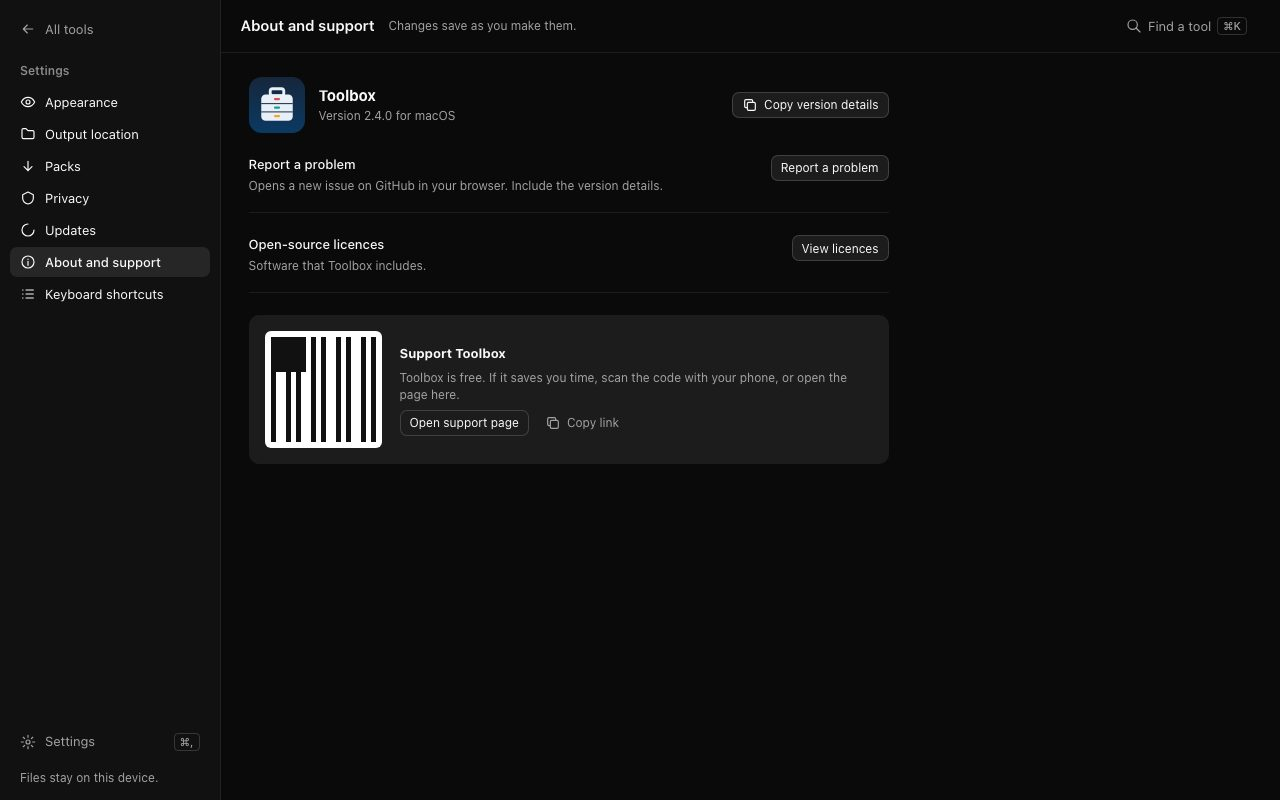
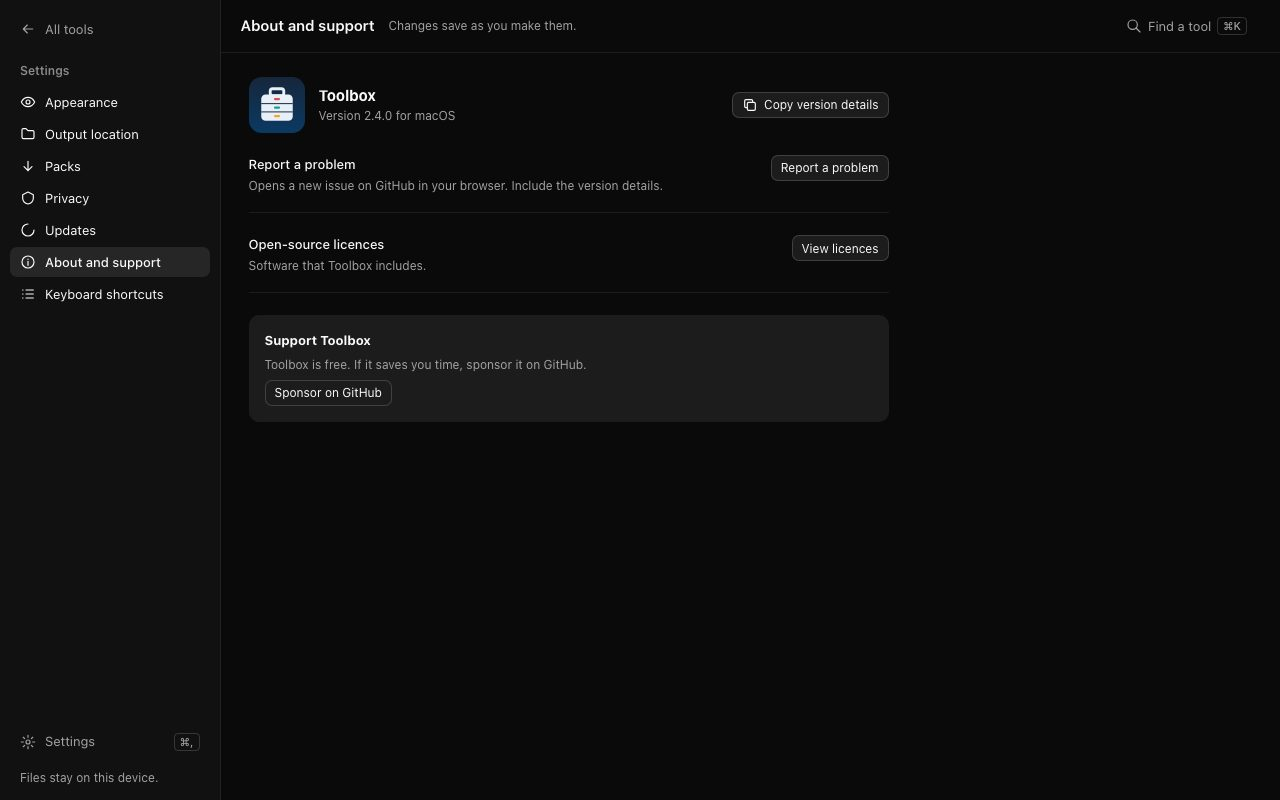
Replace Buy Me a Coffee with GitHub Sponsors (#724)
Settings now offers a "Sponsor on GitHub" button that opens the sponsor
page through a fixed-URL native command, replacing the QR code. The
README swaps the Ona badge for a Sponsors badge, and FUNDING.yml points
at GitHub Sponsors.

Changed region(s): [[0.1875, 0.4062, 0.6562, 0.5625]]

diff --git a/ToolboxTauri/design/boards/Settings.dc.html b/ToolboxTauri/design/boards/Settings.dc.html
@@ -65,8 +65,8 @@ fieldset.opt{border:0;margin:0;padding:0}fieldset.opt legend{padding:0;margin-bo
 <div style="display: flex; gap: 16px; align-items: flex-start; flex-wrap: wrap; padding-bottom: 18px; border-bottom: 1px solid var(--line)"><span style="flex: 1 1 260px; display: flex; flex-direction: column; gap: 3px"><span style="font-weight: 500">Report a problem</span><span class="hint">Opens a new issue on GitHub in your browser. Include the version details.</span></span><span style="flex: none"><button class="btn sm">Report a problem</button></span></div>
 <div style="display: flex; gap: 16px; align-items: flex-start; flex-wrap: wrap; padding-bottom: 18px; border-bottom: 1px solid var(--line)"><span style="flex: 1 1 260px; display: flex; flex-direction: column; gap: 3px"><span style="font-weight: 500">Open-source licences</span><span class="hint">Software that Toolbox includes.</span></span><span style="flex: none"><button class="btn sm">View licences</button></span></div>
 <div style="display: flex; gap: 18px; align-items: center; flex-wrap: wrap; padding: 16px; border-radius: 10px; background: var(--raise)">
-<span role="img" aria-label="QR code for the support page" style="width: 105px; height: 105px; padding: 6px; background: #fff; border-radius: 6px; display: grid; grid-template-columns: repeat(21, 1fr)"><span style="background: #111"></span><span style="background: #111"></span><span style="background: #111"></span><span style="background: #111"></span><span style="background: #111"></span><span style="background: #111"></span><span style="background: #111"></span><span style="background: #fff"></span><span style="background: #111"></span><span style="background: #fff"></span><span style="background: #111"></span><span style="background: #fff"></span><span style="background: #fff"></span><span style="background: #111"></span><span style="background: #fff"></span><span style="background: #111"></span><span style="background: #fff"></span><span style="background: #fff"></span><span style="background: #111"></span><span style="background: #fff"></span><span style="background: #111"></span><span style="background: #111"></span><span style="background: #111"></span><span style="background: #111"></span><span style="background: #111"></span><span style="background: #111"></span><span style="background: #111"></span><span style="background: #111"></span><span style="background: #fff"></span><span style="background: #111"></span><span style="background: #fff"></span><span style="background: #111"></span><span style="background: #fff"></span><span style="background: #fff"></span><span style="background: #111"></span><span style="background: #fff"></span><span style="background: #111"></span><span style="background: #fff"></span><span style="background: #fff"></span><span style="background: #111"></span><span style="background: #fff"></span><span style="background: #111"></span><span style="background: #111"></span><span style="background: #111"></span><span style="background: #111"></span><span style="background: #111"></span><span style="background: #111"></span><span style="background: #111"></span><span style="background: #111"></span><span style="background: #fff"></span><span style="background: #111"></span><span style="background: #fff"></span><span style="background: #111"></span><span style="background: #fff"></span><span style="background: #fff"></span><span style="background: #111"></span><span style="background: #fff"></span><span style="background: #111"></span><span style="background: #fff"></span><span style="background: #fff"></span><span style="background: #111"></span><span style="background: #fff"></span><span style="background: #111"></span><span style="background: #111"></span><span style="background: #111"></span><span style="background: #111"></span><span style="background: #111"></span><span style="background: #111"></span><span style="background: #111"></span><span style="background: #111"></span><span style="background: #fff"></span><span style="background: #111"></span><span style="background: #fff"></span><span style="background: #111"></span><span style="background: #fff"></span><span style="background: #fff"></span><span style="background: #111"></span><span style="background: #fff"></span><span style="background: #111"></span><span style="background: #fff"></span><span style="background: #fff"></span><span style="background: #111"></span><span style="background: #fff"></span><span style="background: #111"></span><span style="background: #111"></span><span style="background: #111"></span><span style="background: #111"></span><span style="background: #111"></span><span style="background: #111"></span><span style="background: #111"></span><span style="background: #111"></span><span style="background: #fff"></span><span style="background: #111"></span><span style="background: #fff"></span><span style="background: #111"></span><span style="background: #fff"></span><span style="background: #fff"></span><span style="background: #111"></span><span style="background: #fff"></span><span style="background: #111"></span><span style="background: #fff"></span><span style="background: #fff"></span><span style="background: #111"></span><span style="background: #fff"></span><span style="background: #111"></span><span style="background: #111"></span><span style="background: #111"></span><span style="background: #111"></span><span style="background: #111"></span><span style="background: #111"></span><span style="background: #111"></span><span style="background: #111"></span><span style="background: #fff"></span><span style="background: #111"></span><span style="background: #fff"></span><span style="background: #111"></span><span style="background: #fff"></span><span style="background: #fff"></span><span style="background: #111"></span><span style="background: #fff"></span><span style="background: #111"></span><span style="background: #fff"></span><span style="background: #fff"></span><span style="background: #111"></span><span style="background: #fff"></span><span style="background: #111"></span><span style="background: #111"></span><span style="background: #111"></span><span style="background: #111"></span><span style="background: #111"></span><span style="background: #111"></span><span style="background: #111"></span><span style="background: #111"></span><span style="background: #fff"></span><span style="background: #111"></span><span style="background: #fff"></span><span style="background: #111"></span><span style="background: #fff"></span><span style="background: #fff"></span><span style="background: #111"></span><span style="background: #fff"></span><span style="background: #111"></span><span style="background: #fff"></span><span style="background: #fff"></span><span style="background: #111"></span><span style="background: #fff"></span><span style="background: #111"></span><span style="background: #111"></span><span style="background: #fff"></span><span style="background: #fff"></span><span style="background: #111"></span><span style="background: #fff"></span><span style="background: #111"></span><span style="background: #fff"></span><span style="background: #fff"></span><span style="background: #111"></span><span style="background: #fff"></span><span style="background: #111"></span><span style="background: #fff"></span><span style="background: #fff"></span><span style="background: #111"></span><span style="background: #fff"></span><span style="background: #111"></span><span style="background: #fff"></span><span style="background: #fff"></span><span style="background: #111"></span><span style="background: #fff"></span><span style="background: #111"></span><span style="background: #111"></span><span style="background: #fff"></span><span style="background: #fff"></span><span style="background: #111"></span><span style="background: #fff"></span><span style="background: #111"></span><span style="background: #fff"></span><span style="background: #fff"></span><span style="background: #111"></span><span style="background: #fff"></span><span style="background: #111"></span><span style="background: #fff"></span><span style="background: #fff"></span><span style="background: #111"></span><span style="background: #fff"></span><span style="background: #111"></span><span style="background: #fff"></span><span style="background: #fff"></span><span style="background: #111"></span><span style="background: #fff"></span><span style="background: #111"></span><span style="background: #111"></span><span style="background: #fff"></span><span style="background: #fff"></span><span style="background: #111"></span><span style="background: #fff"></span><span style="background: #111"></span><span style="background: #fff"></span><span style="background: #fff"></span><span style="background: #111"></span><span style="background: #fff"></span><span style="background: #111"></span><span style="background: #fff"></span><span style="background: #fff"></span><span style="background: #111"></span><span style="background: #fff"></span><span style="background: #111"></span><span style="background: #fff"></span><span style="background: #fff"></span><span style="background: #111"></span><span style="background: #fff"></span><span style="background: #111"></span><span style="background: #111"></span><span style="background: #fff"></span><span style="background: #fff"></span><span style="background: #111"></span><span style="background: #fff"></span><span style="background: #111"></span><span style="background: #fff"></span><span style="background: #fff"></span><span style="background: #111"></span><span style="background: #fff"></span><span style="background: #111"></span><span style="background: #fff"></span><span style="background: #fff"></span><span style="background: #111"></span><span style="background: #fff"></span><span style="background: #111"></span><span style="background: #fff"></span><span style="background: #fff"></span><span style="background: #111"></span><span style="background: #fff"></span><span style="background: #111"></span><span style="background: #111"></span><span style="background: #fff"></span><span style="background: #fff"></span><span style="background: #111"></span><span style="background: #fff"></span><span style="background: #111"></span><span style="background: #fff"></span><span style="background: #fff"></span><span style="background: #111"></span><span style="background: #fff"></span><span style="background: #111"></span><span style="background: #fff"></span><span style="background: #fff"></span><span style="background: #111"></span><span style="background: #fff"></span><span style="background: #111"></span><span style="background: #fff"></span><span style="background: #fff"></span><span style="background: #111"></span><span style="background: #fff"></span><span style="background: #111"></span><span style="background: #111"></span><span style="background: #fff"></span><span style="background: #fff"></span><span style="background: #111"></span><span style="background: #fff"></span><span style="background: #111"></span><span style="background: #fff"></span><span style="background: #fff"></span><span style="background: #111"></span><span style="background: #fff"></span><span style="background: #111"></span><span style="background: #fff"></span><span style="background: #fff"></span><span style="background: #111"></span><span style="background: #fff"></span><span style="background: #111"></span><span style="background: #fff"></span><span style="background: #fff"></span><span style="background: #111"></span><span style="background: #fff"></span><span style="background: #111"></span><span style="background: #111"></span><span style="background: #fff"></span><span style="background: #fff"></span><span style="background: #111"></span><span style="background: #fff"></span><span style="background: #111"></span><span style="background: #fff"></span><span style="background: #fff"></span><span style="background: #111"></span><span style="background: #fff"></span><span style="background: #111"></span><span style="background: #fff"></span><span style="background: #fff"></span><span style="background: #111"></span><span style="background: #fff"></span><span style="background: #111"></span><span style="background: #fff"></span><span style="background: #fff"></span><span style="background: #111"></span><span style="background: #fff"></span><span style="background: #111"></span><span style="background: #111"></span><span style="background: #fff"></span><span style="background: #fff"></span><span style="background: #111"></span><span style="background: #fff"></span><span style="background: #111"></span><span style="background: #fff"></span><span style="background: #fff"></span><span style="background: #111"></span><span style="background: #fff"></span><span style="background: #111"></span><span style="background: #fff"></span><span style="background: #fff"></span><span style="background: #111"></span><span style="background: #fff"></span><span style="background: #111"></span><span style="background: #fff"></span><span style="background: #fff"></span><span style="background: #111"></span><span style="background: #fff"></span><span style="background: #111"></span><span style="background: #111"></span><span style="background: #fff"></span><span style="background: #fff"></span><span style="background: #111"></span><span style="background: #fff"></span><span style="background: #111"></span><span style="background: #fff"></span><span style="background: #fff"></span><span style="background: #111"></span><span style="background: #fff"></span><span style="background: #111"></span><span style="background: #fff"></span><span style="background: #fff"></span><span style="background: #111"></span><span style="background: #fff"></span><span style="background: #111"></span><span style="background: #fff"></span><span style="background: #fff"></span><span style="background: #111"></span><span style="background: #fff"></span><span style="background: #111"></span><span style="background: #111"></span><span style="background: #fff"></span><span style="background: #fff"></span><span style="background: #111"></span><span style="background: #fff"></span><span style="background: #111"></span><span style="background: #fff"></span><span style="background: #fff"></span><span style="background: #111"></span><span style="background: #fff"></span><span style="background: #111"></span><span style="background: #fff"></span><span style="background: #fff"></span><span style="background: #111"></span><span style="background: #fff"></span><span style="background: #111"></span><span style="background: #fff"></span><span style="background: #fff"></span><span style="background: #111"></span><span style="background: #fff"></span><span style="background: #111"></span><span style="background: #111"></span><span style="background: #fff"></span><span style="background: #fff"></span><span style="background: #111"></span><span style="background: #fff"></span><span style="background: #111"></span><span style="background: #fff"></span><span style="background: #fff"></span><span style="background: #111"></span><span style="background: #fff"></span><span style="background: #111"></span><span style="background: #fff"></span><span style="background: #fff"></span><span style="background: #111"></span><span style="background: #fff"></span><span style="background: #111"></span><span style="background: #fff"></span><span style="background: #fff"></span><span style="background: #111"></span><span style="background: #fff"></span><span style="background: #111"></span><span style="background: #111"></span><span style="background: #fff"></span><span style="background: #fff"></span><span style="background: #111"></span><span style="background: #fff"></span><span style="background: #111"></span><span style="background: #fff"></span><span style="background: #fff"></span><span style="background: #111"></span><span style="background: #fff"></span><span style="background: #111"></span><span style="background: #fff"></span><span style="background: #fff"></span><span style="background: #111"></span><span style="background: #fff"></span><span style="background: #111"></span><span style="background: #fff"></span><span style="background: #fff"></span><span style="background: #111"></span><span style="background: #fff"></span><span style="background: #111"></span><span style="background: #111"></span><span style="background: #fff"></span><span style="background: #fff"></span><span style="background: #111"></span><span style="background: #fff"></span><span style="background: #111"></span><span style="background: #fff"></span><span style="background: #fff"></span><span style="background: #111"></span><span style="background: #fff"></span><span style="background: #111"></span><span style="background: #fff"></span><span style="background: #fff"></span><span style="background: #111"></span><span style="background: #fff"></span><span style="background: #111"></span><span style="background: #fff"></span><span style="background: #fff"></span><span style="background: #111"></span><span style="background: #fff"></span><span style="background: #111"></span><span style="background: #111"></span><span style="background: #fff"></span><span style="background: #fff"></span><span style="background: #111"></span><span style="background: #fff"></span><span style="background: #111"></span><span style="background: #fff"></span><span style="background: #fff"></span><span style="background: #111"></span><span style="background: #fff"></span><span style="background: #111"></span><span style="background: #fff"></span><span style="background: #fff"></span><span style="background: #111"></span><span style="background: #fff"></span><span style="background: #111"></span><span style="background: #fff"></span><span style="background: #fff"></span><span style="background: #111"></span><span style="background: #fff"></span><span style="background: #111"></span></span>
-<span style="flex: 1 1 220px; display: flex; flex-direction: column; gap: 6px"><strong>Support Toolbox</strong><span class="hint">Toolbox is free. If it saves you time, scan the code with your phone, or open the page here.</span><span style="display: flex; gap: 6px"><button class="btn sm">Open support page</button><button class="btn sm ghost"><svg class="ic" viewBox="0 0 24 24" aria-hidden="true"><rect x="8" y="8" width="12" height="12" rx="2"></rect><path d="M16 8V6a2 2 0 0 0-2-2H6a2 2 0 0 0-2 2v8a2 2 0 0 0 2 2h2"></path></svg>Copy link</button></span></span></div></sc-if></section>
+</span>
+<span style="flex: 1 1 220px; display: flex; flex-direction: column; gap: 6px"><strong>Support Toolbox</strong><span class="hint">Toolbox is free. If it saves you time, sponsor it on GitHub.</span><span style="display: flex; gap: 6px"><button class="btn sm">Sponsor on GitHub</button></span></span></div></sc-if></section>
 </div>
 </div>
 </div>

diff --git a/ToolboxTauri/src/views/SettingsPage.tsx b/ToolboxTauri/src/views/SettingsPage.tsx
@@ -5,7 +5,6 @@ import { invoke } from "@tauri-apps/api/core";
 import { confirm, open } from "@tauri-apps/plugin-dialog";
 import { ArrowLeft, Check, Eye, Folder, Info, List, LoaderCircle, Search, Shield, type LucideIcon } from "lucide-react";
 import packageInfo from "../../package.json";
-import qrCode from "../assets/BuyMeACoffeeQR.png";
 import appIcon from "../../src-tauri/icons/128x128.png";
 import {
   isAnalyticsOptedOut,
@@ -253,6 +252,29 @@ const NoticesCard = () => {
   );
 };
 
+const SupportCard = () => {
+  const [error, setError] = useState<string | null>(null);
+  const openSponsorPage = async () => {
+    setError(null);
+    try {
+      await invoke("open_sponsor_page");
+    } catch (reason) {
+      setError(String(reason));
+    }
+  };
+  return (
+    <Card className="settings-update py-0">
+      <CardContent className="settings-update-content">
+        <span className="settings-row-text" role="status" aria-live="polite">
+          <span className="settings-update-title">Support Toolbox</span>
+          <span className="settings-row-hint">{error ?? "Toolbox is free. If it saves you time, sponsor it on GitHub."}</span>
+        </span>
+        <Button variant="outline" size="xs" onClick={() => void openSponsorPage()}>Sponsor on GitHub</Button>
+      </CardContent>
+    </Card>
+  );
+};
+
 const AboutSection = () => (
   <>
     <div className="settings-about">
@@ -262,15 +284,7 @@ const AboutSection = () => (
         <span className="settings-row-hint">Version {packageInfo.version} for {isWindows() ? "Windows" : "macOS"}</span>
       </span>
     </div>
-    <Card className="settings-support py-0">
-      <CardContent className="settings-support-content">
-        <img src={qrCode} width="112" height="112" alt="Buy Me a Coffee donation QR code" />
-        <span className="settings-row-text">
-          <strong className="settings-update-title">Support Toolbox</strong>
-          <span className="settings-row-hint">Toolbox is free. If it saves you time, scan the code with your phone.</span>
-        </span>
-      </CardContent>
-    </Card>
+    <SupportCard />
     <NoticesCard />
   </>
 );

diff --git a/ToolboxTauri/tests/ui/feature-navigation.spec.ts b/ToolboxTauri/tests/ui/feature-navigation.spec.ts
@@ -909,8 +909,11 @@ test("the settings sidebar switches sections and lists only the built ones", asy
     await expect(sections.getByRole("button", { name: "About and support" })).toHaveAttribute("aria-pressed", "true");
     await expect(sections.getByRole("button", { name: "Appearance" })).toHaveAttribute("aria-pressed", "false");
     await expect(about).toContainText(`Version ${appVersion} for macOS`);
-    await expect(about.getByRole("img", { name: "Buy Me a Coffee donation QR code" })).toBeVisible();
     await expect(about).toContainText("Support Toolbox");
+    await about.getByRole("button", { name: "Sponsor on GitHub" }).click();
+    await expect.poll(() => page.evaluate(() =>
+        ((window as TestWindow).__toolboxInvocations ?? []).filter(({ command }) => command === "open_sponsor_page").length,
+    )).toBe(1);
 
     await about.getByRole("button", { name: "Open notices" }).click();
     await expect.poll(() => page.evaluate(() =>

diff --git a/ToolboxTauri/src/styles/app.css b/ToolboxTauri/src/styles/app.css
@@ -1048,8 +1048,6 @@ body {
 .settings-about { display:flex; align-items:center; gap:14px; }
 .settings-about img { width:56px; height:56px; border-radius:12px; }
 .settings-about-name { font-size:15px; }
-.settings-support-content { display:flex; align-items:center; gap:18px; padding:16px; }
-.settings-support-content img { width:112px; height:112px; flex:none; border-radius:4px; background:#fff; }
 @media (max-width: 760px) {
   .settings-page { display:block; height:auto; min-height:100vh; overflow:visible; }
   .settings-sidebar { border-right:0; border-bottom:1px solid var(--border); }

diff --git a/ToolboxTauri/src-tauri/src/main.rs b/ToolboxTauri/src-tauri/src/main.rs
@@ -6,7 +6,7 @@ mod kit;
 mod settings;
 mod shell;
 
-use crate::file_actions::{open_output_path, open_third_party_notices, reveal_output_path};
+use crate::file_actions::{open_output_path, open_sponsor_page, open_third_party_notices, reveal_output_path};
 use crate::kit::common::{note_renamed, JobOutcome};
 use crate::kit::images::{ImageProcessor, Options as ImageOptions};
 use crate::kit::images::tools;
@@ -466,6 +466,7 @@ fn main() {
             open_output_path,
             reveal_output_path,
             open_third_party_notices,
+            open_sponsor_page,
             intake::inspect_intake_paths,
             settings::get_output_settings,
             settings::set_output_settings,

diff --git a/ToolboxTauri/src-tauri/src/file_actions.rs b/ToolboxTauri/src-tauri/src/file_actions.rs
@@ -91,6 +91,13 @@ pub fn open_third_party_notices() -> Result<(), String> {
     open_file(&path)
 }
 
+const SPONSOR_PAGE_URL: &str = "https://github.com/sponsors/lazzyms";
+
+#[tauri::command]
+pub fn open_sponsor_page() -> Result<(), String> {
+    open_file(Path::new(SPONSOR_PAGE_URL))
+}
+
 #[cfg(target_os = "macos")]
 fn open_file(path: &Path) -> Result<(), String> {
     run_open("/usr/bin/open", &[path.as_os_str().to_owned()], "open", path)

diff --git a/README.md b/README.md
@@ -3,7 +3,7 @@
 Toolbox is a cross-platform desktop app for private, local-first PDF, document,
 and image utilities. Files are processed on-device and are never uploaded.
 
-[![Build with Ona](https://ona.com/build-with-ona.svg)](https://app.ona.com/#https://github.com/lazzyms/toolbox)
+[![Sponsor lazzyms](https://img.shields.io/badge/Sponsor-lazzyms-ea4aaa?logo=githubsponsors&logoColor=white)](https://github.com/sponsors/lazzyms)
 
 The Tauri app on `main` is the primary Toolbox app and the repository's
 default branch. The website in [`docs/`](docs/) is kept independently.
@@ -95,3 +95,7 @@ coverage with every behavior change. Use short imperative commit messages and
 open pull requests against `main`.
 
 Toolbox is released under the [MIT License](LICENSE).
+
+## Support
+
+Toolbox is free. If it saves you time, [sponsor it on GitHub](https://github.com/sponsors/lazzyms).
